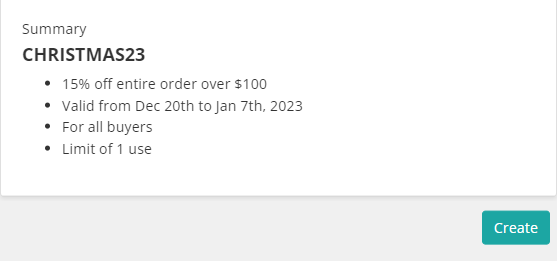
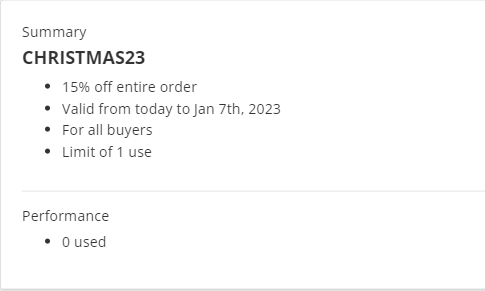
Added Product details and Subscribe to email campaign

diff --git a/play-summit-xm/09. Product Discovery[oc]/02. Creating and using promo codes/README.md b/play-summit-xm/09. Product Discovery[oc]/02. Creating and using promo codes/README.md
@@ -1,8 +1,10 @@
 # Creating and using promo codes
 
-1. Log in to your PLAY! Shop instance.
+This scenario shows flexibility of the promotion codes management process using Sitecore OrderCloud platform.
 
-1. Copy password of the "Headstart Admin" user type.
+1. Go to your instance details page <https://portal.sitecoredemo.com/instance/{{demoId}}>.
+
+1. Copy password of the "Headstart Admin" user.
 ![Copy password](./media/copy-password.png)
 
 1. Click the "Headstart Seller UI" service.
@@ -20,7 +22,7 @@
 1. Click the "Create New Promotion" button in the left top corner of the page.
 ![Create New Promotion](./media/create-new-promotion.png)
 
-1. Fill in the "Discount Code", "Fine Print" fields.
+1. Fill in the "Discount Code".
 ![New promotion](./media/new-promotion.png)
 
 1. Mark the "Type" field, fill in the "Value" field and set minimum requirements for promotion.
@@ -108,4 +110,26 @@
 1. You will see that your promo code didn't apply, because the total amount of your order is less than 100$, as it was indicated in this promo.
 ![Not valid promo](./media/not-valid-promo.png)
 
-This scenario shows flexibility of the promotion codes management process using Sitecore OrderCloud platform.
+1. Return to the PLAY! Shop home page.
+1. Choose the interested shop trending category.
+![Machines](./media/machines.png)
+
+1. Choose the interested item.
+![Treadmill](./media/treadmill.png)
+
+1. Click the "Add To Cart" button under the price.
+![Call to action](./media/call-to-action.png)
+
+1. Click the "Cart" icon in the right top corner of the page.
+![Cart](./media/cart-button.png)
+
+1. Click the "View full cart" button.
+![View full cart](./media/view-full-cart-action.png)
+
+1. Add the second promo code and click the "Apply promotion" button.
+![Second promo code](./media/second-promo-code.png)
+
+1. You will see the applied promo codes. You can delete one of them clicking the "Delete" button and proceed to checkout.
+![Applied promo codes](./media/applied-promo.png)
+
+

diff --git a/play-summit-xm/09. Product Discovery[oc]/03. Products management/README.md b/play-summit-xm/09. Product Discovery[oc]/03. Products management/README.md
@@ -1,0 +1,36 @@
+# Updating product details
+
+This scenario shows how to manage products stored in Sitecore OrderCloud platform.
+
+1. Go to your instance details page <https://portal.sitecoredemo.com/instance/{{demoId}}>.
+
+1. Click the "Headstart Seller UI" service.
+![Seller UI](./media/seller.png)
+
+1. Click the "Products" section.
+![Products](./media/products.png)
+
+1. Click "All products" link.
+![All products link](./media/all-products.png)
+
+1. Choose any product from the list.
+![Product name](./media/product-name.png)
+
+1. Open the "Pricing" section.
+![Pricing](./media/pricing.png)
+
+1. Change the price in the "Price" field.
+![Price](./media/price.png)
+
+1. Scroll down the page and click the "Save Changes" button.
+![Save changes](./media/save-changes.png)
+
+1. Go to the [PLAY! Shop](https://{{demoName}}-{{demoUid}}-shop.vercel.app).
+1. Type "bike cover" in the searchbox.
+![Bike cover](./media/bike-cover.png)
+
+1. Choose the product.
+![Product](./media/product.png)
+
+1. You will see the new price of the product.
+![New price](./media/new-price.png)

diff --git a/play-summit-xm/08. Email Automation/01. Subscribe to Email Campaign/README.md b/play-summit-xm/08. Email Automation/01. Subscribe to Email Campaign/README.md
@@ -1,0 +1,19 @@
+# Subscribe to Email Campaign
+
+This scenario shows how the website visitors can subscribe to your email campaigns.
+
+1. Go to the [PLAY! Summit Website](https://{{demoName}}-{{demoUid}}-website.vercel.app).
+1. Open the "Sessions" section.
+![Sessions](./media/sessions.png)
+
+1. You will see the "Sign Up For Session Updates!" pop-up window.
+![Sign up](./media/sign-up.png)
+
+1. Fill in the "First name", "Last name", "Email" fields and click the "Subscribe" button.
+![Subscribe](./media/subscribe.png)
+
+1. You will see the "Thank You" pop-up window.
+![Thank you](./media/thank-you.png)
+
+1. Check your inbox and you will see the "Thank you for signing up to receive updates from PLAY! Summit" email there.
+![Email](./media/email.png)
